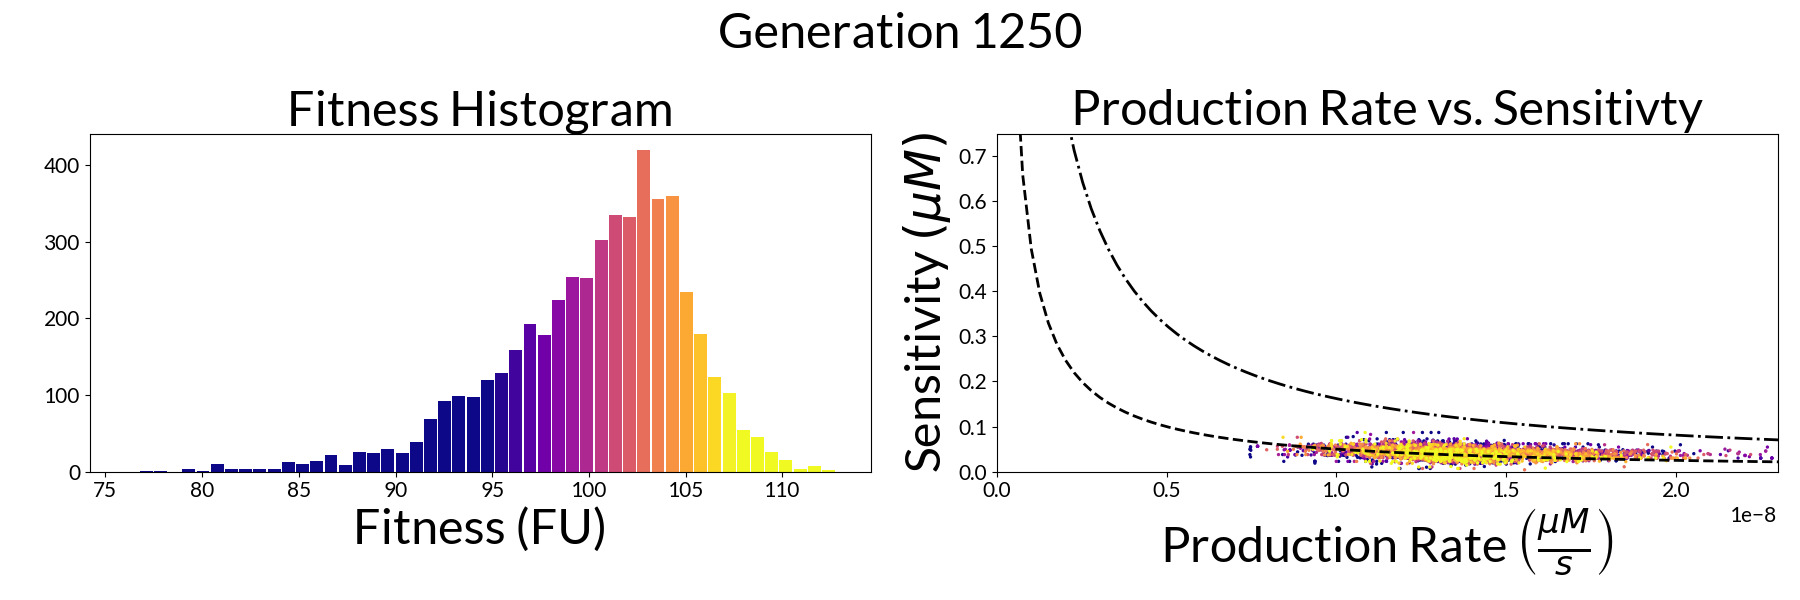
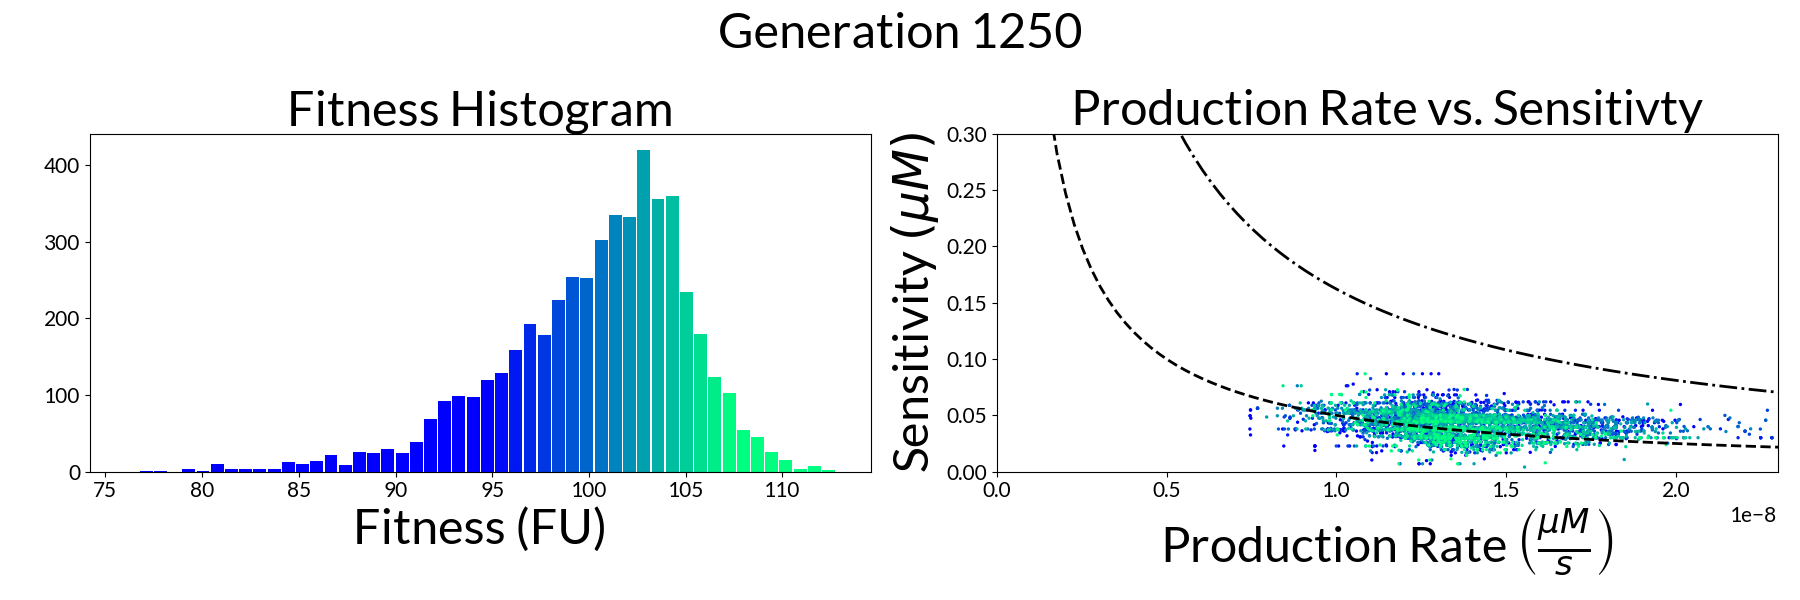
some runs

diff --git a/New python/graphNoThresholds.py b/New python/graphNoThresholds.py
@@ -386,7 +386,7 @@ def graph_last_gen_standard(file, lam, gen):
     fig, ax = plt.subplots(1,2, figsize=(18, 6))
     binNo = 50
     fit_Pop = data["fit_Pop"]
-    cm = plt.get_cmap("plasma")
+    cm = plt.get_cmap("winter")
     q1, mead, q3 = np.quantile(fit_Pop, [.25,.5,.75])
     cNorm = colors.CenteredNorm(vcenter=mead, halfrange=(q3-q1))
     scalarMap = cmx.ScalarMappable(norm=cNorm, cmap=cm)
@@ -447,8 +447,12 @@ def graph_last_gen_standard(file, lam, gen):
     # ax[2].plot(x, , color="black", linewidth = 2,  linestyle="dashed", )
     ax[1].plot(x, 10**-4 * 1.62*10**-5 / x , color="black", linewidth=2.0, linestyle="dashdot")
     ax[1].plot(x, 10**-4 * .4992*10**-5 / x, color="black", linewidth=2.0, linestyle="dashed")
-    ax[1].set_xlim([0, 23 * 10 **-9])
-    ax[1].set_ylim([0, .75])
+    if auto:
+        ax[1].set_xlim([0, 23 * 10 **-9])
+        ax[1].set_ylim([0, .3])
+    else:
+        ax[1].set_xlim([0, 9 * 10 **-9])
+        ax[1].set_ylim([0, .75])
     fig.suptitle(f"Generation {generation}", fontsize = fs)
     # 
    
@@ -512,13 +516,13 @@ def graph_multiple_standard1(split_value, folder_name, minimum, maximum, step):
     ax[1].set_xlabel("Generation", fontsize=fs)
     ax[1].set_ylabel('Production Rate $\left(\\frac{\mu M}{s}\\right)$', fontsize=fs)
 
-    ax[2].set_title("Signaling Threshold Evolution", fontsize=fs)
+    ax[2].set_title("Sensitivity Evolution", fontsize=fs)
     ax[2].set_xlabel("Generation", fontsize=fs)
-    ax[2].set_ylabel('Signaling Threshold $\left(\mu M\\right)$', fontsize=fs)
+    ax[2].set_ylabel('Sensitivity', fontsize=fs)
 
     plt.tight_layout()
     plt.subplots_adjust(left= .05, wspace=0.162, hspace=.524)
-    plt.show()
+    plt.savefig(f"Pictures\\No Auto genotype 1.png")
 
 def graph_multiple_standard2(split_value, folder_name, minimum, maximum, step):
     fig, ax = plt.subplots(1,3, figsize=(25, 6))
@@ -530,6 +534,8 @@ def graph_multiple_standard2(split_value, folder_name, minimum, maximum, step):
     totalprod =[]
     threshold  = []
     splitname = ""
+    splitname = "Number of Genotypes per Testing Environment"
+    # fig.suptitle("Genetic Mixing", fontsize= 20)
     if split_value == 6:
         splitname = "Cost of Signaling $(10^8 FU)$"
         fig.suptitle("Variation of Cost of Singaling", fontsize= 20)
@@ -537,7 +543,7 @@ def graph_multiple_standard2(split_value, folder_name, minimum, maximum, step):
         splitname = "Number of Genotypes per Testing Environment"
         fig.suptitle("Genetic Mixing", fontsize= 20)
     costs = []
-    
+    fs = 30
     for path, directories, files in os.walk(folder_name):
         for file in files:
             # cost = int(file.split(" ")[split_value])
@@ -547,29 +553,33 @@ def graph_multiple_standard2(split_value, folder_name, minimum, maximum, step):
                 data = json.load(f)
             max_G = len(data["fit_Evo"])
            
-            
+            p = np.array(data["pro_Rate_Evo"])
+            r = np.array(data["auto_pro_Rate_Evo"])
+            s = np.array(data["sensitivity_Evo"])
 
-            ax[0].plot(range(max_G), data["fit_Evo"], color=scalarMap.to_rgba(cost))
-            ax[1].plot(range(max_G), data["coopPayoff_Evo"], color=scalarMap.to_rgba(cost))
-            ax[2].plot(range(max_G), data["coopCost_Evo"], color=scalarMap.to_rgba(cost))
+            ax[0].plot(range(max_G), np.array(data["sensitivity_Evo"])*(p+ r) /  10.0 ** -4, color=scalarMap.to_rgba(cost))
 
+            # ax[0].plot(range(max_G), s * 10 **-4 / (p+r), color=scalarMap.to_rgba(cost))
+            ax[1].plot(range(max_G), p+r, color=scalarMap.to_rgba(cost))
+            ax[2].plot(range(max_G), data["sensitivity_Evo"], color=scalarMap.to_rgba(cost))
     plt.colorbar(scalarMap, ax=ax[0], label= splitname)
+    ax[0].plot(range(max_G), np.full((max_G,), 1.62*10**-5 ), color="black", linewidth=2.0, linestyle="dashdot")
+    ax[0].plot(range(max_G), np.full((max_G,), .4992*10**-5 ), color="black", linewidth=2.0, linestyle="dashed")
+    ax[0].set_title("$\\frac{Sn_i p_{total}}{u}$ Evolution", fontsize=fs)
+    ax[0].set_xlabel("Generation", fontsize=fs)
+    ax[0].set_ylabel('$\\frac{Sn_i p_{total}}{u}$  $\left(\mu L\\right)$', fontsize=fs)
 
-    ax[0].set_title("Fitness Evolution")
-    ax[0].set_xlabel("Generation")
-    ax[0].set_ylabel('Fitness (FU)')
+    ax[1].set_title("Total Production Rate Evolution", fontsize=fs)
+    ax[1].set_xlabel("Generation", fontsize=fs)
+    ax[1].set_ylabel('Production Rate $\left(\\frac{\mu M}{s}\\right)$', fontsize=fs)
 
-    ax[1].set_title("Cooperation Payoff Evolution")
-    ax[1].set_xlabel("Generation")
-    ax[1].set_ylabel('Cooperation Payoff (FU)')
-
-    ax[2].set_title("Cooperation Cost Evolution")
-    ax[2].set_xlabel("Generation")
-    ax[2].set_ylabel('Cooperation Cost (FU)')
+    ax[2].set_title("Sensitivity Evolution", fontsize=fs)
+    ax[2].set_xlabel("Generation", fontsize=fs)
+    ax[2].set_ylabel('Sensitivity', fontsize=fs)
 
     plt.tight_layout()
     plt.subplots_adjust(left= .05, wspace=0.162, hspace=.524)
-    plt.show()
+    plt.savefig(f"Pictures\\Auto genotype 1.png")
 
 
 if __name__ == "__main__":
@@ -604,11 +614,12 @@ if __name__ == "__main__":
     # lam=""
     # gen=5000
     # graph_last_gen_standard(f"New python\\json\\clonal gen\\gen {gen}.json", lam, gen)
-    # graph_multiple_standard1(2,"New python\\auto json\\10 geno", 0, 10, .1)
+    graph_multiple_standard2(2,"New python\\auto json\\10 geno", 0, 10, .1)
+    graph_multiple_standard1(2,"New python\json\\10 genotypes", 0, 10, .1)
     
-    for gen in [250,750,1000,5000]:
-        graph_last_gen_standard(f"New python\\json\\clonal gen\\gen {gen}.json", "0", gen)
-        # graph_last_gen_standard(f"New python\\json\\generations for 10\\gen {gen} 6.0.json", "6.0", gen)
+    # for gen in [250,750,1000,5000]:
+    #     graph_last_gen_standard(f"New python\\json\\clonal gen\\gen {gen}.json", "0", gen)
+    #     graph_last_gen_standard(f"New python\\json\\generations for 10\\gen {gen} 6.0.json", "6.0", gen)
     
     # for gen in [250,1250,1500,5000]:
         

diff --git a/New python/mainNoThresholds.py b/New python/mainNoThresholds.py
@@ -245,7 +245,7 @@ def main_QS(init_SN, sig_Cost ,lam , K, mu_Cheats, Auto=False, max_G=500, clonal
             else:
                 coopPayoff_Pop, coopCost_Pop, sigCost_Pop, fit_Pop = eval_genotype_No_Auto(fit_Pop,coopPayoff_Pop,coopCost_Pop,sigCost_Pop,pro_Rate,sensitivity,baseline,coop_Benefit,coop_Cost,sig_Cost,size_Pop,lam,env_CellDen,grid_Size,base_Volume,decay_Rate,median_CellDen)  
 
-        if g % 250 == 249:
+        if g in [259, 749, 999, 4999]:
             print(f"{lam}: {g+1}    {(time.time_ns()-t)* 10 **-9}")
             t = time.time_ns()
             if lam in [1,3,6,9]:
